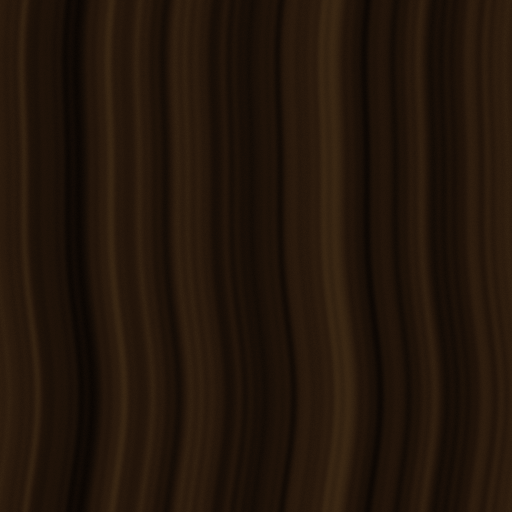
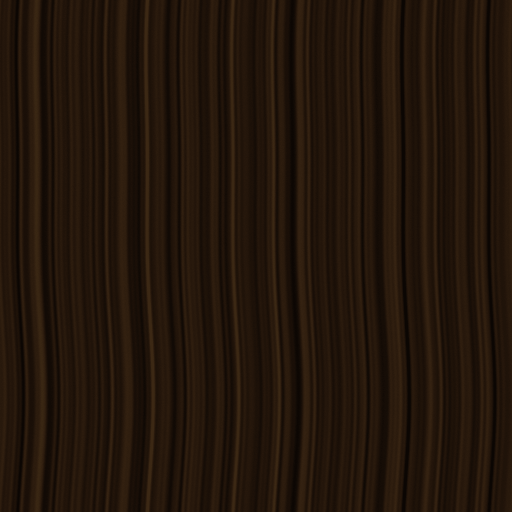
fix(visual): grain is a wavelength in screen pixels, and a wall is not furniture
Two things the built screen said that the contact sheet could not.

GRAIN IS A WAVELENGTH IN SCREEN PIXELS, NOT A FRACTION OF A TILE. The panel tiled an
80 px centre whose lowest components ran three cycles across it — about 8 px a
stripe, five repeats across a dialog — and the settings box came out in corduroy. The
spectrum starts at 13 now, the falloff is gentle enough to keep the fine lines, the
panel tiles at 240 px instead of 80, and a panel's wood is quieter than the standalone
tile (sigma 5) because it carries text. D2's rule — encode at the size it is drawn —
one layer up.

THE PAGE IS NOT A TABLET, AND A WALL IS NOT FURNITURE. Putting wood on PanelContainer
put it on the main container too: 940 x 700 of it, half the screen, where the repeat
is plainly visible and the grain competes with everything standing on it. In the
photographs the wood is the doorway and the cabinet; what they are set into is dark
stone. The page keeps its near-black ground — which is also the surface the act's
picture arrives on in D8-3, the second reason nothing decorative belongs there.

Shot windowed (a screenshot probe may not run --headless): settings, campfire and the
fight at three window sizes. The fight keeps D6's numbers, arena=880x334@66.

diff --git a/tools/make-materials.py b/tools/make-materials.py
@@ -152,12 +152,19 @@ def seamless(image, n, feather=None):
 def wood_grain(n, sigma, seed=7):
     """Wood is drawn, not photographed: the two photographs show it in perspective, and a plank's grain is a
     periodic thing that a tile can simply BE, instead of being cut to look like one."""
+    # ⚠⚠ GRAIN IS A WAVELENGTH IN SCREEN PIXELS, NOT A FRACTION OF A TILE. The first panel tiled a 80 px
+    # centre whose lowest components ran three cycles across it — about 8 px per stripe, five repeats across a
+    # dialog — and the settings box came out in corduroy. Wood at panel size is FINE and QUIET: the low
+    # frequencies that make a plank look like a plank at arm's length are the ones that make it look like a
+    # barcode at 240. So the spectrum starts at 13, the falloff is gentle enough to keep the fine lines, and
+    # the panel tiles at 240 px instead of 80 — D2's rule (encode at the size it is drawn) one layer up.
     rnd = random.Random(seed)
-    parts = [(f, rnd.uniform(0, 2 * math.pi), 1.0 / f ** 0.55) for f in (3, 5, 7, 11, 13, 17, 23, 31, 41, 53)]
+    parts = [(f, rnd.uniform(0, 2 * math.pi), 1.0 / f ** 0.25)
+             for f in (13, 17, 23, 29, 37, 41, 53, 61, 73, 89, 101)]
     grey = Image.new("L", (n, n))
     px = grey.load()
     for y in range(n):
-        wobble = 7 * math.sin(2 * math.pi * y / n) + 3 * math.sin(4 * math.pi * y / n + 1.1)
+        wobble = 3 * math.sin(2 * math.pi * y / n) + 1.5 * math.sin(4 * math.pi * y / n + 1.1)
         for x in range(n):
             u = 2 * math.pi * ((x + wobble) % n) / n
             v = sum(a * math.sin(f * u + p) for f, p, a in parts)
@@ -215,7 +222,7 @@ def nine_patch_ground(kind, size, border, sigma=PANEL_SIGMA):
     return image
 
 
-def panel_wood(size=96, border=8, rim=False):
+def panel_wood(size=256, border=8, rim=False):
     """The everyday panel: a wood ground in a carved edge. Nine-patch margins = `border`.
 
     ⚠ THE BORDER IS 8 AND NOT 16 BECAUSE OF THE ARENA. A stylebox's content margin has to clear its texture
@@ -226,7 +233,7 @@ def panel_wood(size=96, border=8, rim=False):
     `rim` adds the gold hairline an overlay wants: a dialog on top of the game says so with one gold line,
     which is what the accent has meant since D0.
     """
-    image = nine_patch_ground("wood", size, border)
+    image = nine_patch_ground("wood", size, border, sigma=5.0)
     draw = ImageDraw.Draw(image)
     edge = (0x08, 0x05, 0x03, 255)
     lift = (0x3c, 0x28, 0x14, 255)

diff --git a/scripts/SessionScreen.cs b/scripts/SessionScreen.cs
@@ -64,6 +64,13 @@ public partial class SessionScreen : Control
         AddChild(split);
 
         var mainPanel = new PanelContainer { SizeFlagsHorizontal = SizeFlags.ExpandFill };
+        // ⚠⚠ THE PAGE IS NOT A TABLET, AND A WALL IS NOT FURNITURE. Making PanelContainer wear wood put the
+        // material on this container too — 940 x 700 of it, half the screen, where the tile's repeat is
+        // plainly visible and the grain competes with everything standing on it. In the reference the wood is
+        // the DOORWAY and the CABINET; what they are set into is dark stone. So the page keeps the near-black
+        // ground it has had since D0 — and it is also the surface the act's own picture arrives on in D8-3,
+        // which is the second reason nothing decorative belongs here.
+        mainPanel.AddThemeStyleboxOverride("panel", MoonvineTheme.Panel(MoonvineTheme.Bg, MoonvineTheme.Hairline));
         var mainHolder = new Control();
         _mainScroll = new ScrollContainer();
         _mainScroll.SetAnchorsPreset(LayoutPreset.FullRect);
